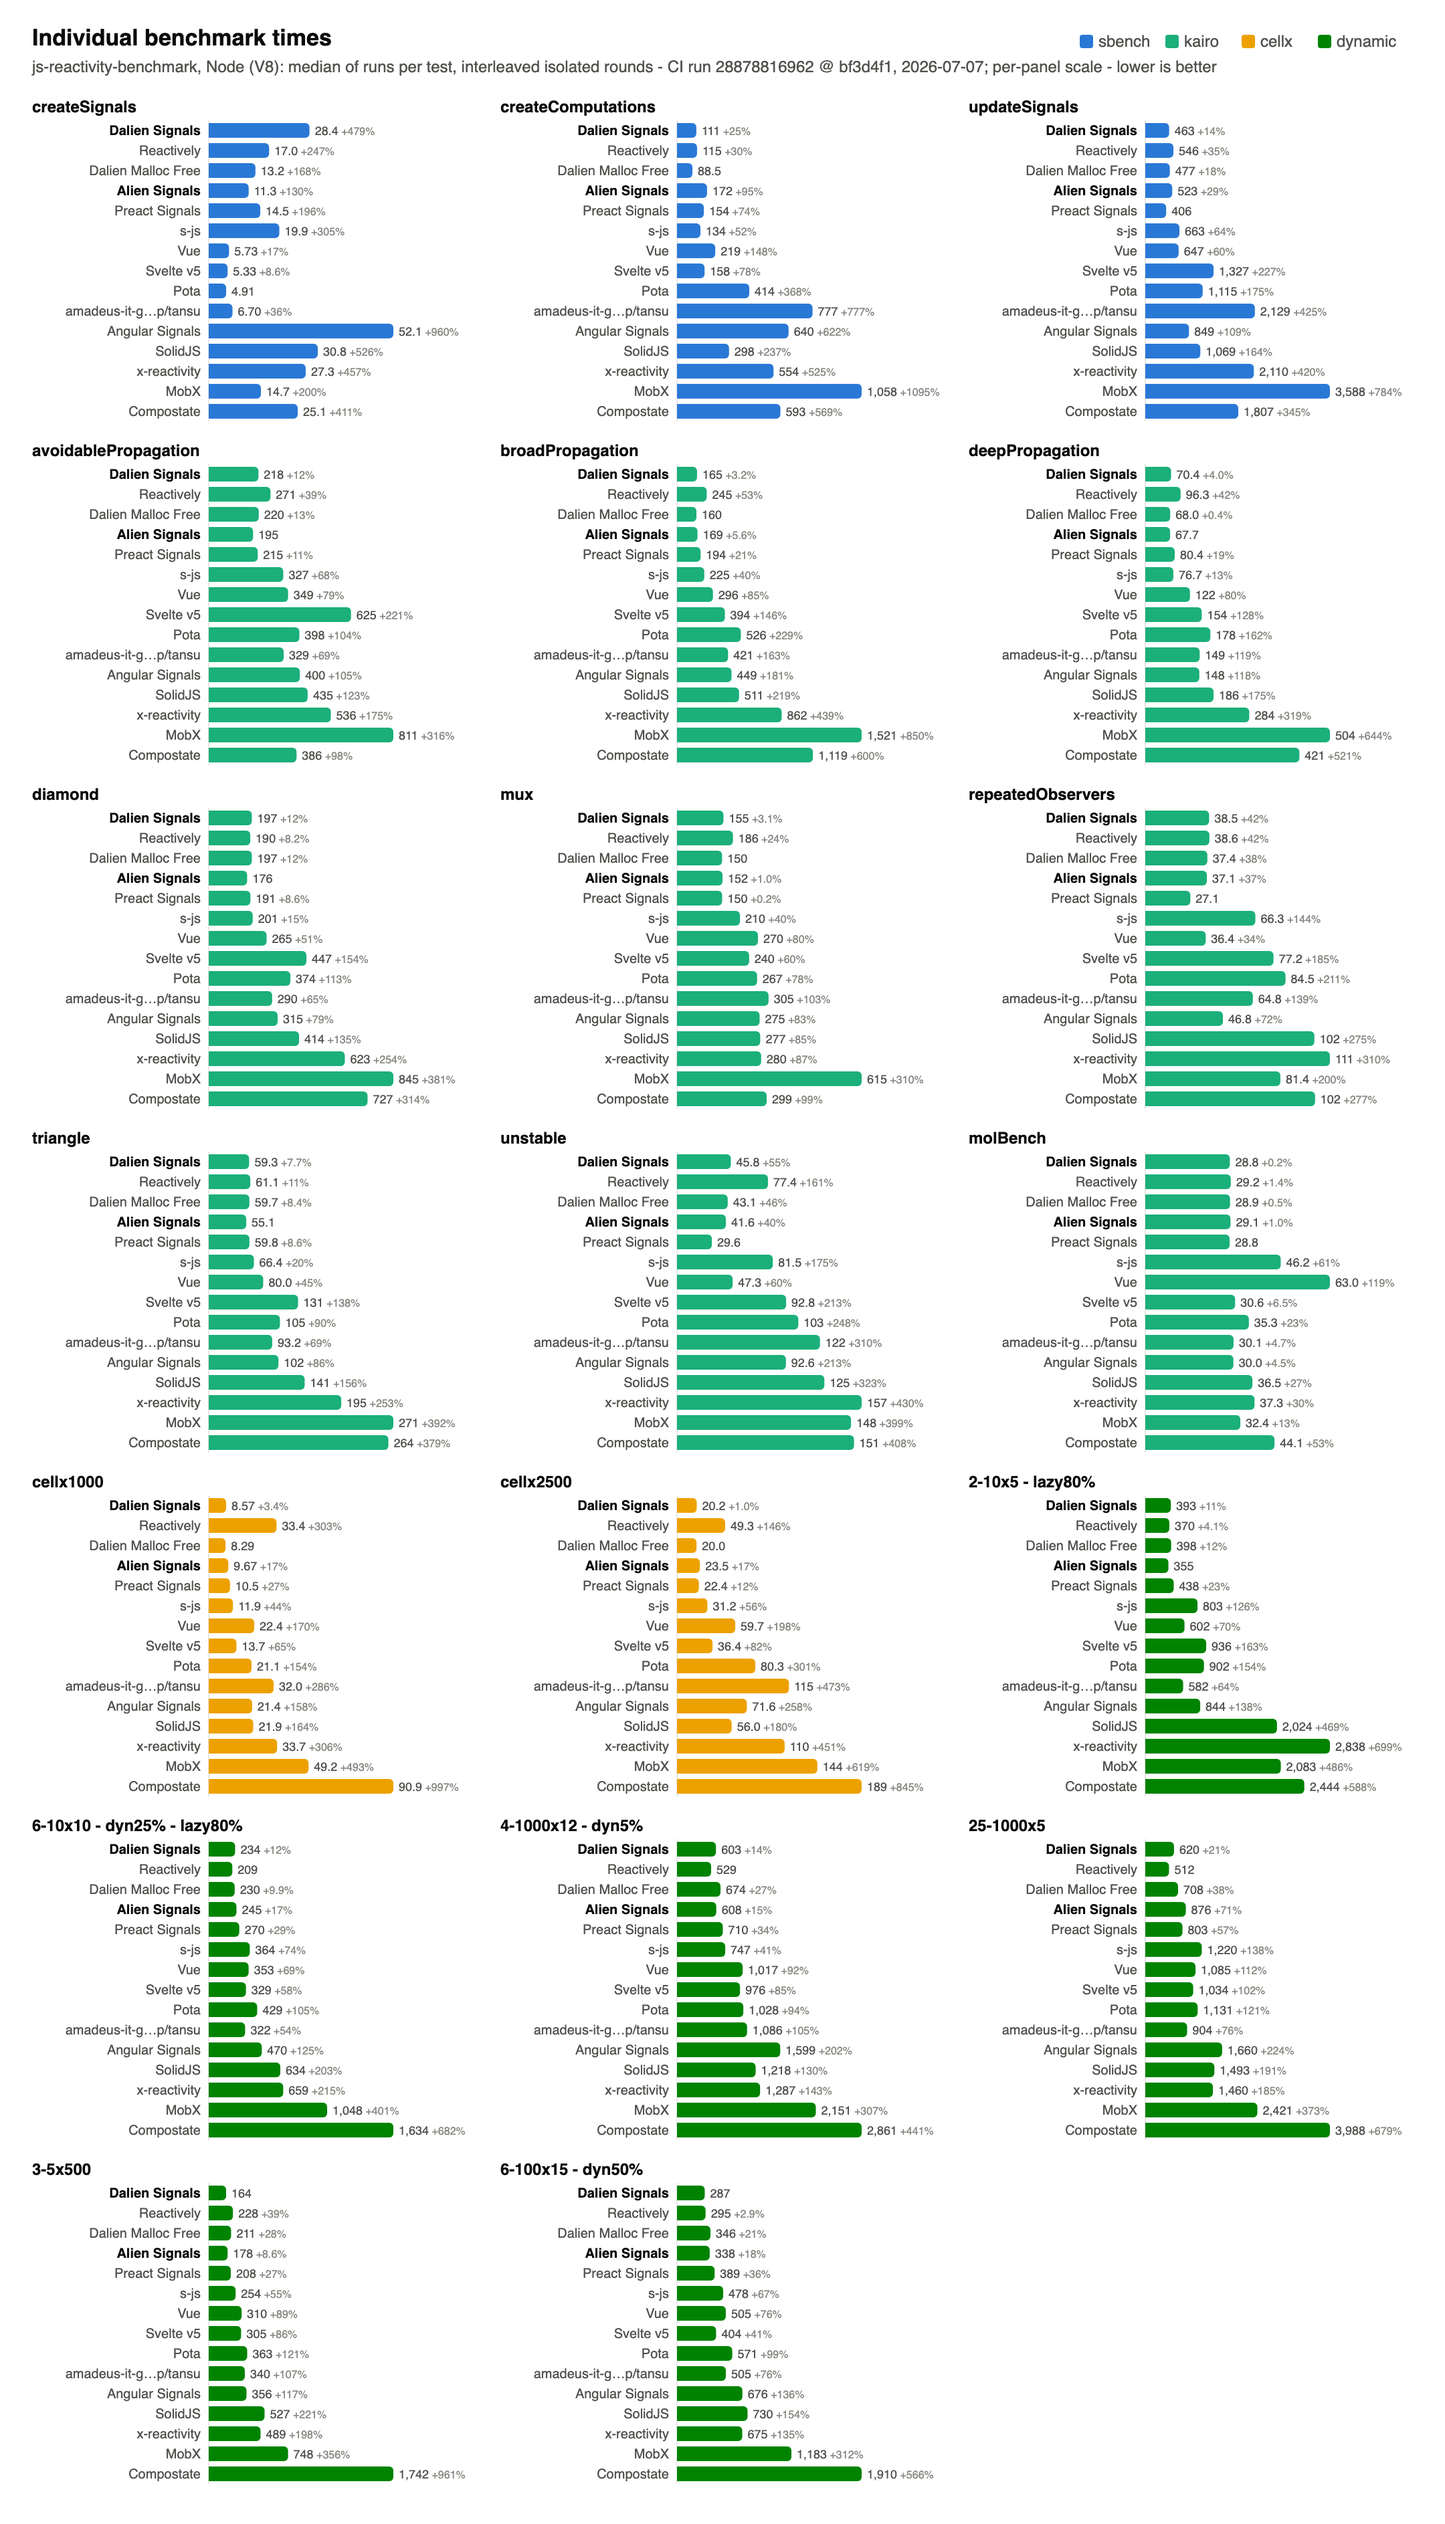
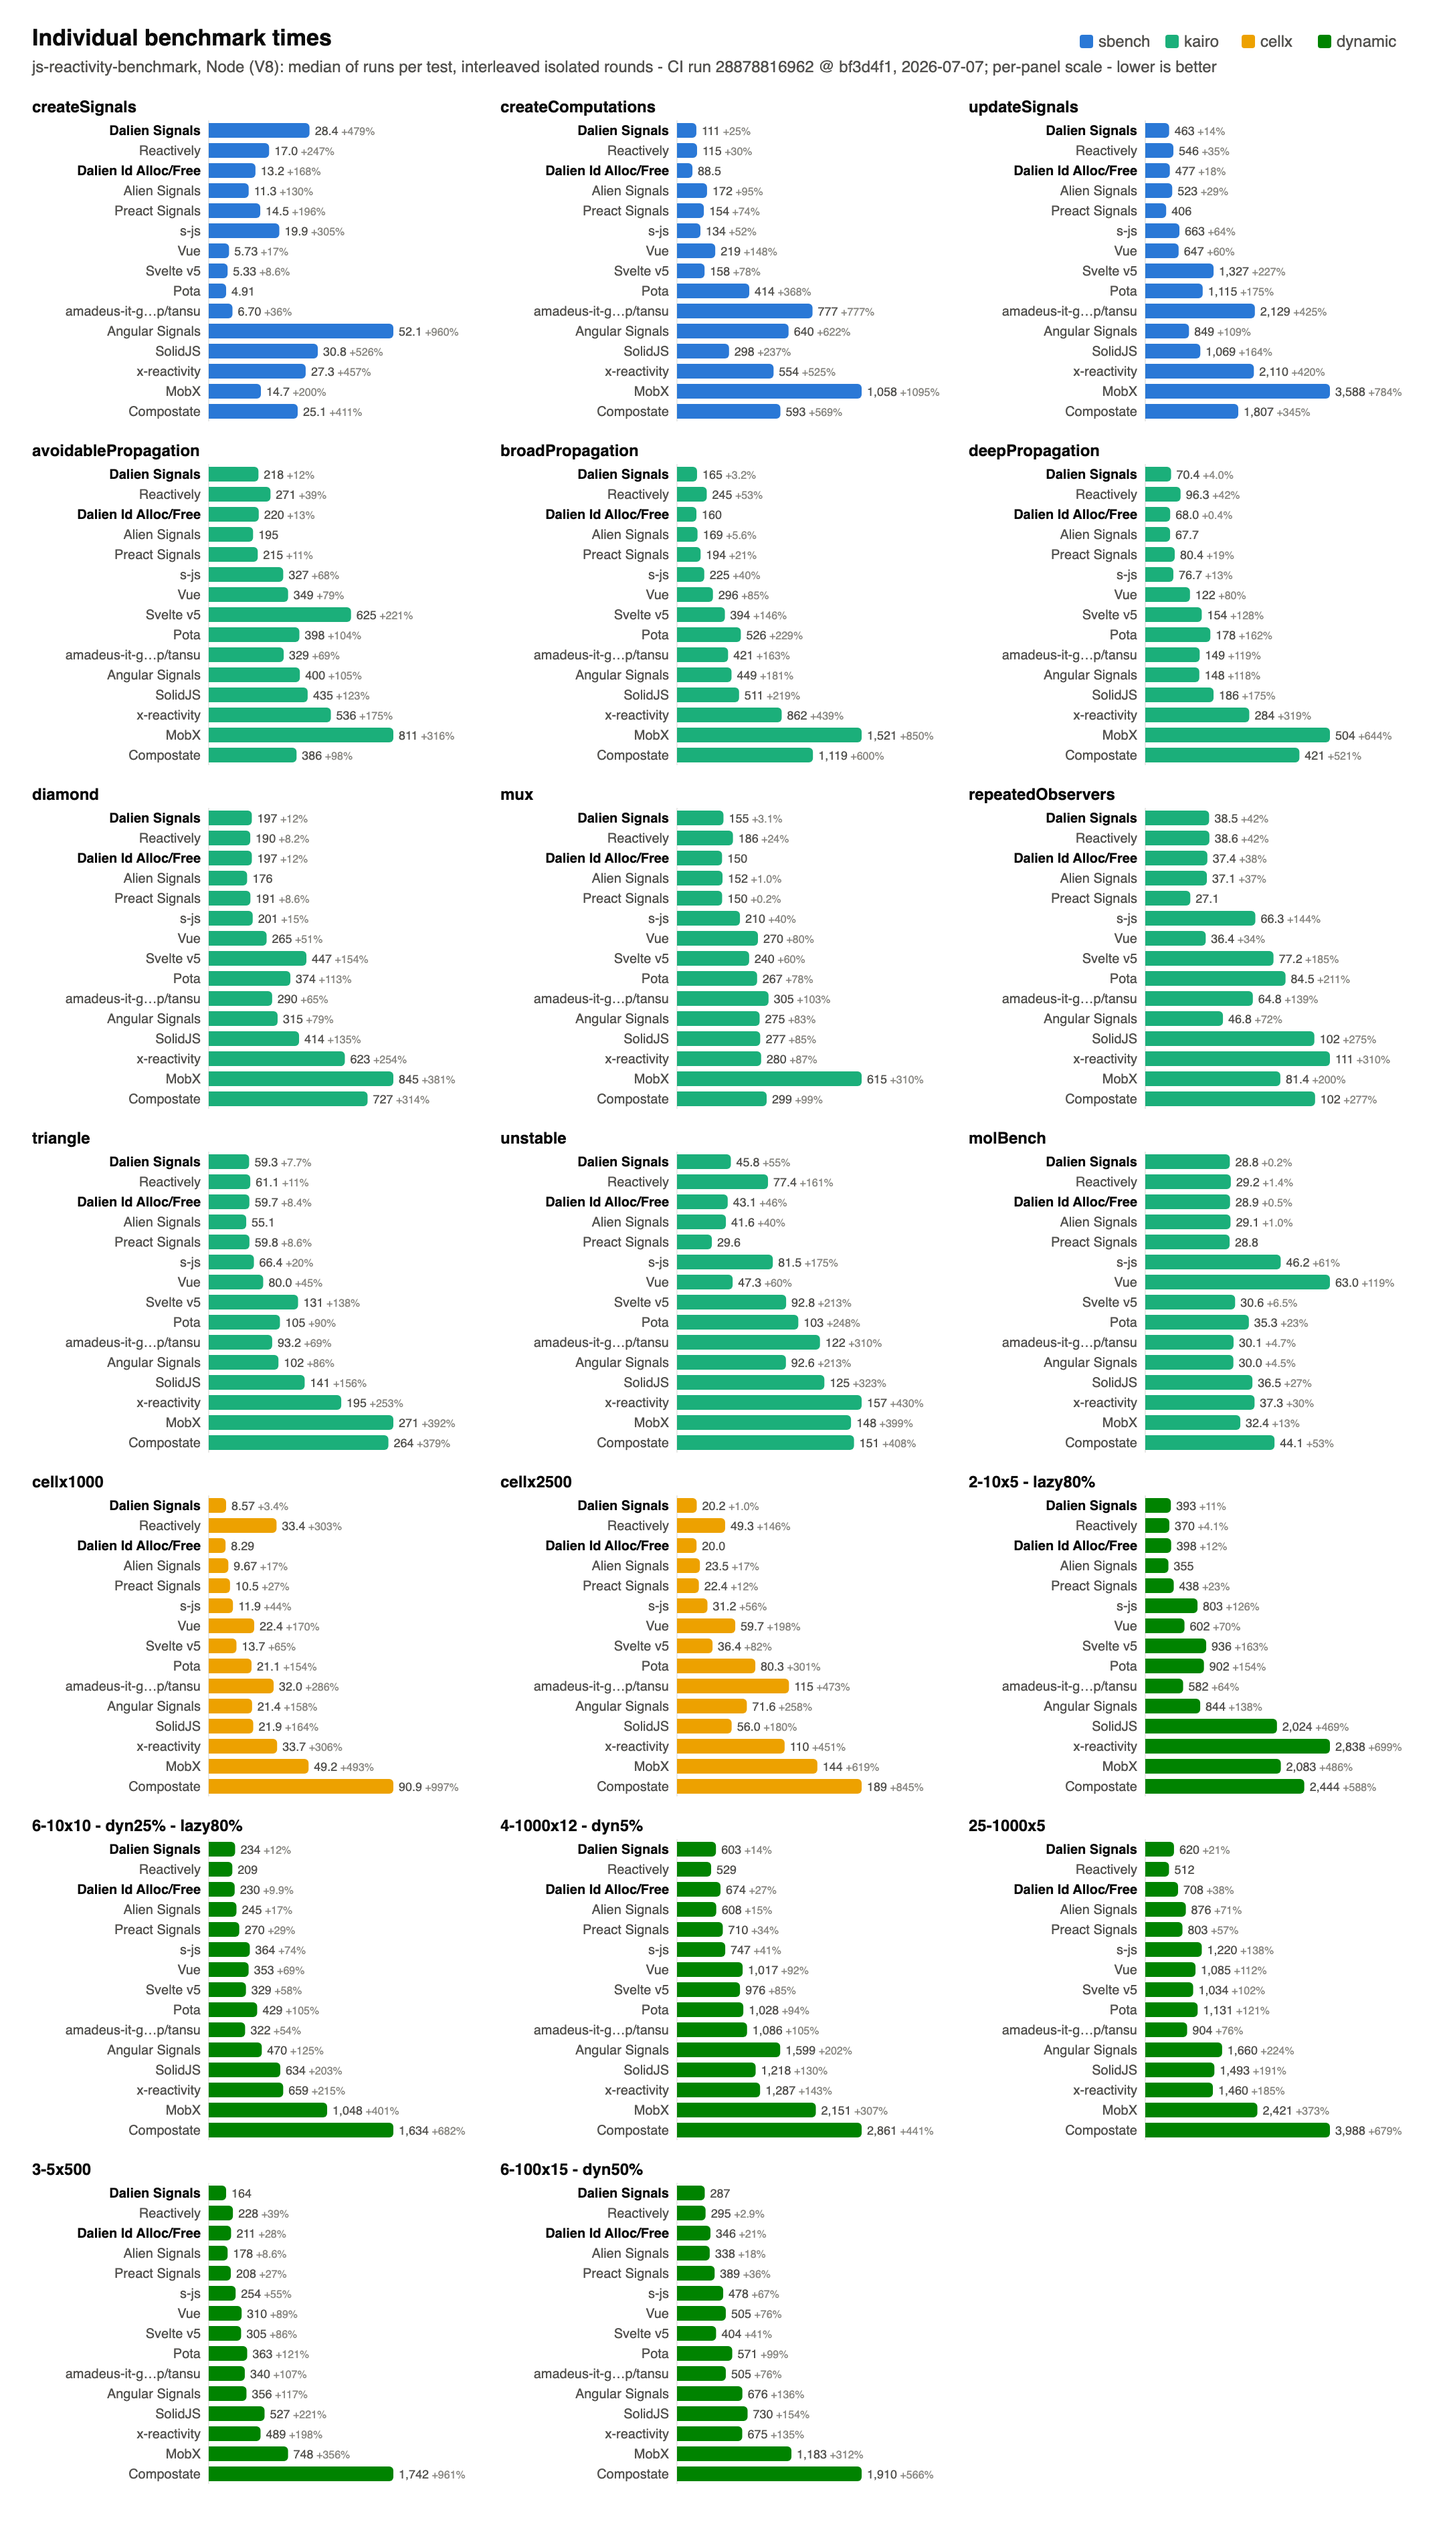
charts: bold this repo's frameworks; raw id tier renders as Dalien Id Alloc/Free
Presentation policy moves to one place in benchs/lib.mjs (displayName +
isOurs): Dalien Signals and Dalien Id Alloc/Free are the bold rows in
every chart, table, and alt text; Alien Signals drops its semibold and
renders like the rest of the field. Charts and README blocks
regenerated from run 28878816962.

diff --git a/README.md b/README.md
@@ -426,7 +426,7 @@ The first two charts run each library in a fresh process, so one library cannot 
 ### Node (V8)
 
 <!-- benchmark:node:begin — generated by benchs/ci/pull-run.mjs; edits inside are overwritten -->
-<img width="1080" alt="Total benchmark time by framework, Node (V8): Dalien Signals 3,911 ms; Reactively 4,100 ms; Dalien Malloc Free 4,137 ms; Alien Signals 4,263 ms; Preact Signals 4,401 ms; s-js 6,026 ms; Vue 6,355 ms; Svelte v5 7,719 ms; Pota 8,129 ms; amadeus-it-group/tansu 8,601 ms; Angular Signals 9,098 ms; SolidJS 10,329 ms; x-reactivity 13,329 ms; MobX 19,318 ms; Compostate 20,796 ms" src="assets/benchmark.png" />
+<img width="1080" alt="Total benchmark time by framework, Node (V8): Dalien Signals 3,911 ms; Reactively 4,100 ms; Dalien Id Alloc/Free 4,137 ms; Alien Signals 4,263 ms; Preact Signals 4,401 ms; s-js 6,026 ms; Vue 6,355 ms; Svelte v5 7,719 ms; Pota 8,129 ms; amadeus-it-group/tansu 8,601 ms; Angular Signals 9,098 ms; SolidJS 10,329 ms; x-reactivity 13,329 ms; MobX 19,318 ms; Compostate 20,796 ms" src="assets/benchmark.png" />
 
 <details>
 <summary>Node (V8) suite totals (ms, lower is better) — CI run 28878816962 @ bf3d4f1, 2026-07-07</summary>
@@ -435,7 +435,7 @@ The first two charts run each library in a fresh process, so one library cannot 
 | --- | ---: | ---: | ---: | ---: | ---: |
 | Dalien Signals | 603 | 978 | 29 | 2301 | 3911 |
 | Reactively | 678 | 1196 | 83 | 2143 | 4100 |
-| Dalien Malloc Free | 579 | 964 | 28 | 2566 | 4137 |
+| Dalien Id Alloc/Free | 579 | 964 | 28 | 2566 | 4137 |
 | Alien Signals | 707 | 922 | 33 | 2601 | 4263 |
 | Preact Signals | 574 | 977 | 33 | 2818 | 4401 |
 | s-js | 817 | 1300 | 43 | 3865 | 6026 |
@@ -459,14 +459,14 @@ The first two charts run each library in a fresh process, so one library cannot 
 Bun's JavaScriptCore currently runs this library well behind alien-signals (the engine work above is tuned against V8, and the current host structure regressed JSC from the previous release, which beat alien-signals under Bun at 0.84x). Treat the Bun numbers as a known issue under active investigation rather than a stable property.
 
 <!-- benchmark:bun:begin — generated by benchs/ci/pull-run.mjs; edits inside are overwritten -->
-<img width="1080" alt="Total benchmark time by framework, Bun (JavaScriptCore): Dalien Malloc Free 3,368 ms; Reactively 3,738 ms; Dalien Signals 3,970 ms; Alien Signals 4,367 ms; Preact Signals 4,392 ms; s-js 4,808 ms; Vue 5,488 ms; Angular Signals 6,226 ms; Svelte v5 6,917 ms; Pota 8,837 ms; amadeus-it-group/tansu 9,577 ms; SolidJS 9,997 ms; x-reactivity 12,139 ms; MobX 13,903 ms; Compostate 30,486 ms" src="assets/benchmark-bun.png" />
+<img width="1080" alt="Total benchmark time by framework, Bun (JavaScriptCore): Dalien Id Alloc/Free 3,368 ms; Reactively 3,738 ms; Dalien Signals 3,970 ms; Alien Signals 4,367 ms; Preact Signals 4,392 ms; s-js 4,808 ms; Vue 5,488 ms; Angular Signals 6,226 ms; Svelte v5 6,917 ms; Pota 8,837 ms; amadeus-it-group/tansu 9,577 ms; SolidJS 9,997 ms; x-reactivity 12,139 ms; MobX 13,903 ms; Compostate 30,486 ms" src="assets/benchmark-bun.png" />
 
 <details>
 <summary>Bun (JavaScriptCore) suite totals (ms, lower is better) — CI run 28878816962 @ bf3d4f1, 2026-07-07</summary>
 
 | framework | sbench | kairo | cellx | dynamic | total |
 | --- | ---: | ---: | ---: | ---: | ---: |
-| Dalien Malloc Free | 553 | 704 | 34 | 2077 | 3368 |
+| Dalien Id Alloc/Free | 553 | 704 | 34 | 2077 | 3368 |
 | Reactively | 520 | 1230 | 68 | 1921 | 3738 |
 | Dalien Signals | 551 | 743 | 60 | 2616 | 3970 |
 | Alien Signals | 734 | 773 | 45 | 2815 | 4367 |
